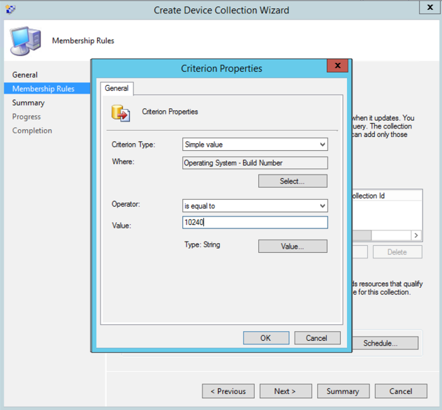
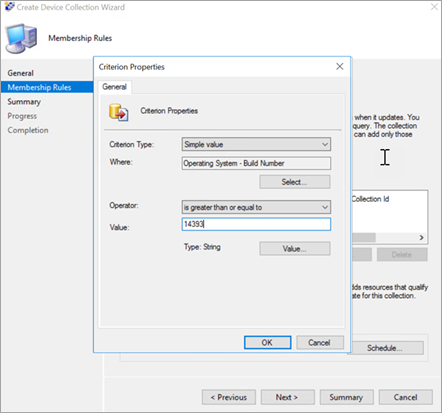
update image and step 7 text

Changed region(s): [[0.0, 0.0, 1.0, 1.0]]

diff --git a/windows/security/threat-protection/microsoft-defender-atp/onboarding.md b/windows/security/threat-protection/microsoft-defender-atp/onboarding.md
@@ -95,7 +95,7 @@ below to onboard systems with Configuration Manager.
 
      ![Image of Microsoft Endpoint Configuration Manager wizard](images/configmgr-criteria.png)
 
-7. Keep criterion type as **simple value**, choose where as **Operating System - build number**, operator as **is equal to** and value **10240** and click on **OK**.
+7. Keep criterion type as **simple value**, choose where as **Operating System - build number**, operator as **is greater than or equal to** and value **14393** and click on **OK**.
 
     ![Image of Microsoft Endpoint Configuration Manager wizard](images/configmgr-simple-value.png)
 
